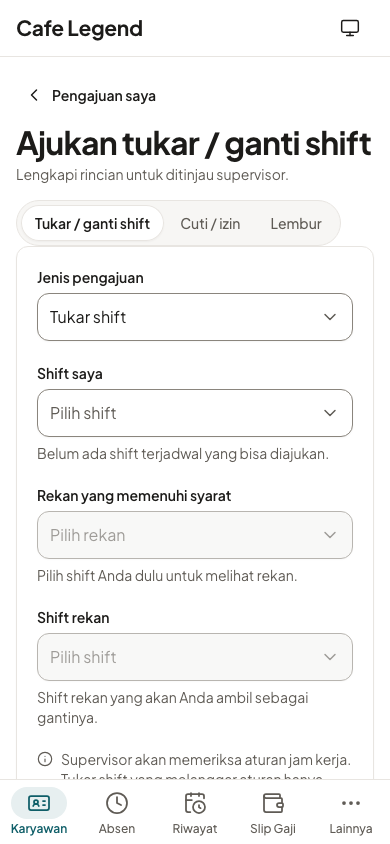
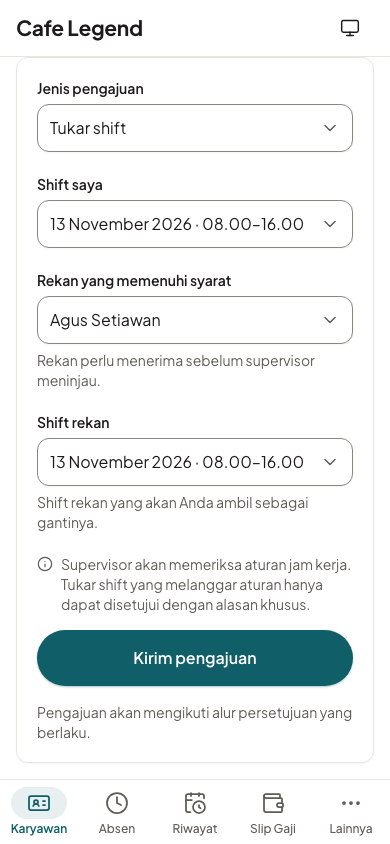
docs(539-U4): progress, review page swap screens, neutral peer hint, mock imports

diff --git a/docs/review/539-u4-hris-pengajuan.html b/docs/review/539-u4-hris-pengajuan.html
@@ -34,11 +34,13 @@
       <figure class="gx-figure"><img src="/Users/ifanshori99/Projects/legend super app/legend/.worktrees/hris-requests/design/screenshots/hris-requests/form-swap-390.png" alt="Tukar shift, tampilan HP (390)"><figcaption>Tukar shift, HP</figcaption></figure>
       <figure class="gx-figure"><img src="/Users/ifanshori99/Projects/legend super app/legend/.worktrees/hris-requests/design/screenshots/hris-requests/form-leave-390.png" alt="Cuti dan izin dengan saldo, tampilan HP (390)"><figcaption>Cuti dan izin, HP</figcaption></figure>
       <figure class="gx-figure"><img src="/Users/ifanshori99/Projects/legend super app/legend/.worktrees/hris-requests/design/screenshots/hris-requests/form-overtime-390.png" alt="Lembur, tampilan HP (390)"><figcaption>Lembur, HP</figcaption></figure>
+      <figure class="gx-figure"><img src="/Users/ifanshori99/Projects/legend super app/legend/.worktrees/hris-requests/design/screenshots/hris-requests/form-swap-sukses-390.png" alt="Pengajuan tukar shift terkirim, tampilan HP (390)"><figcaption>Tukar shift terkirim, HP</figcaption></figure>
       <figure class="gx-figure"><img src="/Users/ifanshori99/Projects/legend super app/legend/.worktrees/hris-requests/design/screenshots/hris-requests/form-leave-sukses-390.png" alt="Pengajuan cuti terkirim, tampilan HP (390)"><figcaption>Berhasil terkirim, HP</figcaption></figure>
       <figure class="gx-figure"><img src="/Users/ifanshori99/Projects/legend super app/legend/.worktrees/hris-requests/design/screenshots/hris-requests/form-offline-390.png" alt="Belum terkirim karena offline, tampilan HP (390)"><figcaption>Offline, belum terkirim, HP</figcaption></figure>
       <figure class="gx-figure"><img src="/Users/ifanshori99/Projects/legend super app/legend/.worktrees/hris-requests/design/screenshots/hris-requests/form-swap-1280.png" alt="Tukar shift, tampilan lebar (1280)"><figcaption>Tukar shift, layar lebar</figcaption></figure>
     </div>
     </gx-wide>
+    <p class="gx-note">Server belum punya langkah "rekan menerima dulu" seperti di mockup; pengajuan tukar shift langsung ke supervisor. Teks di bawah pilihan rekan sudah diganti menjadi "Hanya rekan dengan jadwal yang cocok yang ditampilkan" setelah gambar ini diambil. Lampiran cuti belum bisa diunggah; jenis cuti yang wajib lampiran ditahan dengan penjelasan.</p>
   </section>
   <gx-question tag="Q72" title="Apakah layar pengajuan karyawan sudah sesuai?">
     <gx-choice value="setuju" recommended>Setuju<small>Layar ini sudah sesuai.</small></gx-choice>
@@ -51,7 +53,7 @@
     <h3>Tampilan layar</h3>
     <gx-wide>
     <div class="gx-grid shots" style="--gx-grid-min:min(100%, 260px)">
-      <figure class="gx-figure"><img src="/Users/ifanshori99/Projects/legend super app/legend/.worktrees/hris-requests/design/screenshots/hris-requests/saya-isi-390.png" alt="Daftar pengajuan saya dengan status, tampilan HP (390)"><figcaption>Daftar pengajuan, HP</figcaption></figure>
+      <figure class="gx-figure"><img src="/Users/ifanshori99/Projects/legend super app/legend/.worktrees/hris-requests/design/screenshots/hris-requests/saya-status-390.png" alt="Daftar pengajuan saya dengan status menunggu dan ditolak, tampilan HP (390)"><figcaption>Menunggu dan ditolak, HP</figcaption></figure>
       <figure class="gx-figure"><img src="/Users/ifanshori99/Projects/legend super app/legend/.worktrees/hris-requests/design/screenshots/hris-requests/saya-kosong-390.png" alt="Belum ada pengajuan, tampilan HP (390)"><figcaption>Belum ada pengajuan, HP</figcaption></figure>
       <figure class="gx-figure"><img src="/Users/ifanshori99/Projects/legend super app/legend/.worktrees/hris-requests/design/screenshots/hris-requests/libur-390.png" alt="Kalender libur, tampilan HP (390)"><figcaption>Kalender libur, HP</figcaption></figure>
     </div>

diff --git a/apps/web/src/features/hris-requests/mock.ts b/apps/web/src/features/hris-requests/mock.ts
@@ -9,6 +9,8 @@
 // `listEmployees`, `listHolidays` and `getMyHrisProfile`
 // (lib/mock/handlers/hris-directory.ts).
 //
+// Review sample data: a pending and a rejected overtime of CL-1003, relative to today.
+//
 // Known mock gap: a leave request filed here is stored in this file's state,
 // but `listLeaveRequests` belongs to the 3jem1 mock and serves its own rows, so
 // the new request does not appear in the employee's leave list until the
@@ -50,10 +52,16 @@ import {
   type OvertimeRequest,
   type ShiftSwapRequest,
 } from "@starter/shared/hris";
-import { CoreError, type UserId } from "@starter/shared/core";
+import {
+  addBusinessDays,
+  CoreError,
+  localDateOf,
+  type UserId,
+} from "@starter/shared/core";
 import { ApiError } from "../../lib/api/errors.ts";
 import {
   MOCK_ME,
+  MOCK_OUTLET,
   MOCK_SHIFT_ASSIGNMENTS,
 } from "../../lib/mock/handlers/hris-directory.ts";
 import { paginateFixture } from "../../lib/mock/paginate.ts";
@@ -77,6 +85,48 @@ const uuid = (n: number) =>
 const MOCK_DECIDER_USER_ID = uuid(1002) as UserId;
 const FIRST_NEW_ID = 9000;
 
+// ---- Review sample data (relative to today) -----------------------------------
+//
+// Two overtime requests of CL-1003, dated relative to today in the outlet's
+// time zone: one pending, one rejected, so "Pengajuan saya" shows a rejected
+// status. The shared roster is not touched (the e2e counts CL-1003's shifts).
+const today = localDateOf(new Date(), MOCK_OUTLET.timeZone);
+
+function sampleOvertimes(): OvertimeRequest[] {
+  return [
+    overtimeRequestSchema.parse({
+      id: uuid(8451),
+      tenantId: cafeLegendHrisFixtures.tenant.id,
+      employeeId: MOCK_ME.id,
+      outletId: MOCK_OUTLET.id,
+      date: addBusinessDays(today, 2),
+      minutes: 60,
+      reason: "Menutup outlet setelah acara malam.",
+      dayType: "workday",
+      formulaId: null,
+      status: "pending",
+      requestedAt: new Date().toISOString(),
+      decidedBy: null,
+      decidedAt: null,
+    }),
+    overtimeRequestSchema.parse({
+      id: uuid(8452),
+      tenantId: cafeLegendHrisFixtures.tenant.id,
+      employeeId: MOCK_ME.id,
+      outletId: MOCK_OUTLET.id,
+      date: addBusinessDays(today, -3),
+      minutes: 90,
+      reason: "Membantu stok opname.",
+      dayType: "workday",
+      formulaId: null,
+      status: "rejected",
+      requestedAt: new Date(Date.now() - 4 * 86_400_000).toISOString(),
+      decidedBy: uuid(1002),
+      decidedAt: new Date(Date.now() - 3 * 86_400_000).toISOString(),
+    }),
+  ];
+}
+
 type State = {
   nextId: number;
   swaps: ShiftSwapRequest[];
@@ -92,7 +142,7 @@ const store = createMockStore<State>(() => ({
   swaps: [...shiftSwapRequests],
   leaves: [...leaveRequests],
   balances: [...leaveBalances],
-  overtimes: [...overtimeRequests],
+  overtimes: [...sampleOvertimes(), ...overtimeRequests],
   replays: {},
 }));
 

diff --git a/packages/shared/src/i18n/messages/hris-requests-employee.ts b/packages/shared/src/i18n/messages/hris-requests-employee.ts
@@ -32,7 +32,7 @@ export const hrisRequestsEmployeeMessages = {
     myShiftEmpty: "Belum ada shift terjadwal yang bisa diajukan.",
     peerLabel: "Rekan yang memenuhi syarat",
     peerPlaceholder: "Pilih rekan",
-    peerHint: "Rekan perlu menerima sebelum supervisor meninjau.",
+    peerHint: "Hanya rekan dengan jadwal yang cocok yang ditampilkan.",
     peerEmpty: "Belum ada rekan yang memenuhi syarat untuk shift ini.",
     peerLoading: "Memuat rekan…",
     peerNeedShift: "Pilih shift Anda dulu untuk melihat rekan.",

diff --git a/docs/PROGRESS.md b/docs/PROGRESS.md
@@ -1,3 +1,13 @@
+## 539-U4 HRIS pengajuan + akses dukungan Owner (Claude, ui/hris-requests, 12 Nov 2026 13:35 WIB)
+
+- Kartu legend-ydf2 (HR-05 UI) dan legend-8r77t. Lanjutan dari commit persiapan c12c7217 dan `docs/briefs/sub-539-u4.md`.
+- Layar: karyawan `/karyawan/pengajuan/baru` (tukar/ganti shift, cuti/izin dengan saldo, lembur; sukses; offline belum terkirim + coba lagi dengan idempotency key per draf), `/karyawan/pengajuan`, `/karyawan/libur`; supervisor `/kelola/pengajuan` + detail `/kelola/pengajuan/$kind/$requestId`; Owner `/kelola/akses-dukungan/permintaan` (menunggu, setujui berkonfirmasi, aktif + cabut berkonfirmasi, ditolak, kedaluwarsa 24 jam, kosong, offline, nonaktif saat impersonate/tanpa 2FA); form Super Admin read_write memakai POST support-access-requests.
+- Bukti: tsc web 0 error; `LEGEND_TEST_FILES="tests/539-u4-{a..f}.test.mjs" heavy pnpm test` 85/85; `scripts/ui-check-539-u4.mjs` axe 0 serious/critical di 29 layar x 390/1280; screenshot `design/screenshots/hris-requests/`. ui-auditor 7 temuan dan reviewer (S, UI saja, server tetap memegang otorisasi) 1 sedang + 3 ringan, semua diperbaiki.
+- Halaman review founder: `docs/review/539-u4-hris-pengajuan.html`, Q72-Q77 layar, Q78 (alasan tolak belum tersimpan), Q79 (Owner belum bisa cabut).
+- Kartu backend dibuat: legend-8iuos (cabut grant oleh Owner), legend-ss1xn (alasan tolak di keputusan), legend-0ldcp (unggah lampiran cuti), legend-mu78t (langkah rekan menerima + daftar rekan untuk karyawan), legend-wvy9r (nama peminta akses), legend-rog1x (peran supervisor tidak bisa membuka /kelola).
+- Catatan: mock tidak lagi menambah shift ke roster bersama (e2e legend-299s menghitung shift CL-1003); shift contoh untuk screenshot disuntik di skrip ui-check. Lighthouse dan impeccable detect tidak dijalankan (kuota).
+- Subagent: total 11 (Sonnet 9, Haiku 1, ui-auditor 1), puncak 6 bersamaan, token heavy dipegang agent lalu subagent ui-check. Biaya sesi* 9.77M (utama Opus 2.37M, Sonnet 7.37M). Waktu 10:47-13:35.
+
 ## 526 WS-05 admin payment fixes (Codex G0b06, 11 Nov 2026 22:50 WIB)
 
 - Cabang `ws/ws05-pay-admin`, worktree `.worktrees/ws05-pay-admin`, basis `9806b8cd`, bead `legend-xoxim`; scope brief 523/526 dan founder Q63.
